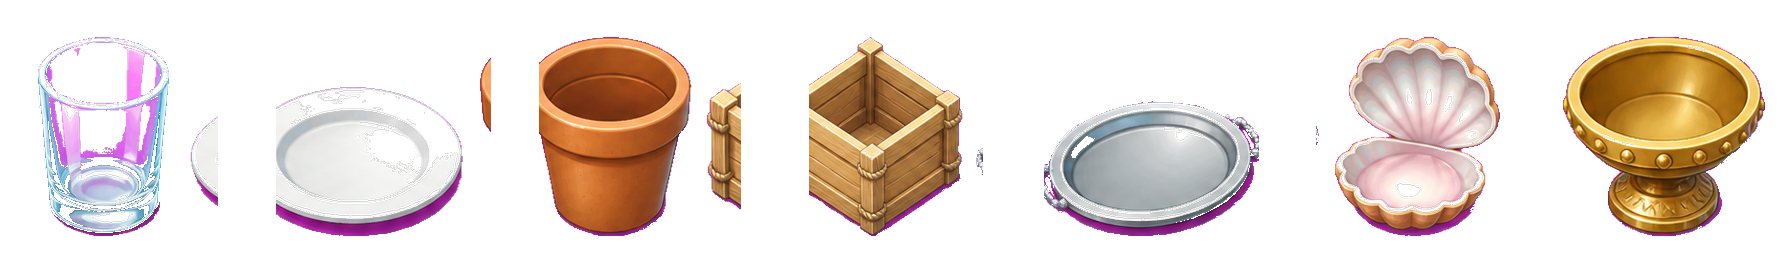
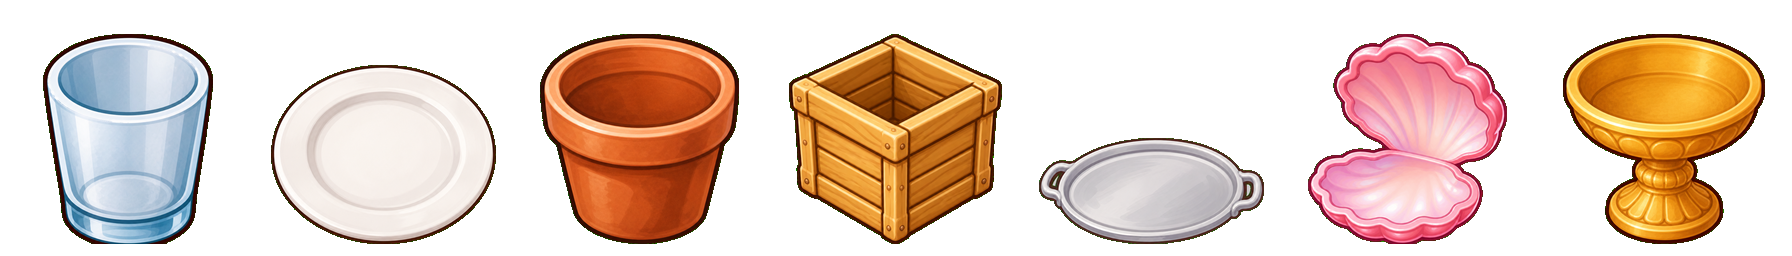
Polish menus and rebuild base utensil art.
Move High Score/Achievements back buttons top-left, add an even 16th achievement, and regenerate utensil icons so empties render cleanly in-game.

diff --git a/index.html b/index.html
@@ -242,7 +242,8 @@
     { id: "score20k", name: "Resort Legend", desc: "Reach a best score of 20,000.", icon: 1, check: s => s.highScore >= 20000 },
     { id: "merges100", name: "Busy Hands", desc: "Complete 100 merges.", icon: 15, check: s => s.totalMerges >= 100 },
     { id: "secretBird", name: "Secret Seagull", desc: "Discover the Jamaican Breeze skin.", icon: 12, check: s => !!s.jamaicanUnlocked },
-    { id: "constellation", name: "Sky Mapper", desc: "Trigger a constellation boost.", icon: 14, check: s => !!s.constellationHits }
+    { id: "constellation", name: "Sky Mapper", desc: "Trigger a constellation boost.", icon: 14, check: s => !!s.constellationHits },
+    { id: "glassStarter", name: "Empty Hands", desc: "Launch 25 empty utensils into service.", icon: 0, check: s => (s.baseLaunches|0) >= 25 }
   ];
 
   const UPGRADE_COSTS = [
@@ -395,7 +396,8 @@
       tutorial: [false,false,false,false,false,false,false],
       lastStation: 0,
       achievements: {},
-      constellationHits: 0
+      constellationHits: 0,
+      baseLaunches: 0
     };
   }
 
@@ -426,6 +428,7 @@
       );
       merged.achievements = Object.assign({}, base.achievements, raw.achievements || {});
       merged.constellationHits = Math.max(0, merged.constellationHits|0);
+      merged.baseLaunches = Math.max(0, merged.baseLaunches|0);
       return merged;
     } catch (_) {
       return base;
@@ -1286,13 +1289,17 @@
     text("Slide. Match. Serve. Forever.", 360, 1188, 18, "#fff8df", "center", 700);
   }
 
+  function drawSubmenuHeader(title, backId) {
+    drawCircleButton(backId, 48, 58, 32, "‹", () => { screen = "menu"; });
+    shadowText(title, 360, 58, 28, "#fff8df");
+    drawCircleButton("sound", 668, 58, 30, save.muted ? "×" : "♪", toggleSound);
+  }
+
   function drawScores() {
     drawMapBackdrop(true);
     ctx.fillStyle = "rgba(8,60,68,.35)";
     ctx.fillRect(0,0,W,H);
-    drawMenuChrome();
-    drawCircleButton("scoresBack", 48, 58, 30, "‹", () => { screen = "menu"; });
-    shadowText("HIGH SCORES", 360, 58, 30, "#fff8df");
+    drawSubmenuHeader("HIGH SCORES", "scoresBack");
     rounded(48, 140, 624, 980, 36, "rgba(255,249,228,.97)", "#e6ad32", 6);
     drawMenuIcon(1, 360, 220, 110);
     text("BEST SHIFT SCORE", 360, 300, 18, "#8b6b58");
@@ -1313,9 +1320,7 @@
     drawMapBackdrop(true);
     ctx.fillStyle = "rgba(8,60,68,.35)";
     ctx.fillRect(0,0,W,H);
-    drawMenuChrome();
-    drawCircleButton("achBack", 48, 58, 30, "‹", () => { screen = "menu"; });
-    shadowText("ACHIEVEMENTS", 360, 58, 28, "#fff8df");
+    drawSubmenuHeader("ACHIEVEMENTS", "achBack");
     const unlockedCount = ACHIEVEMENTS.filter(entry => save.achievements[entry.id]).length;
     text(`${unlockedCount} / ${ACHIEVEMENTS.length} unlocked`, 360, 96, 16, "#fff4bf");
     rounded(36, 128, 648, 1008, 34, "rgba(255,249,228,.97)", "#3eb1d0", 5);
@@ -1325,7 +1330,7 @@
       const col = i % 2;
       const row = Math.floor(i / 2);
       const x = 58 + col * 310;
-      const y = 156 + row * 122;
+      const y = 152 + row * 120;
       rounded(x, y, 292, 108, 22, unlocked ? "#fff7df" : "#ebe4d4", unlocked ? "#3eb1d0" : "#b7b1a4", 3);
       ctx.save();
       ctx.globalAlpha = unlocked ? 1 : .45;
@@ -1870,6 +1875,10 @@
       spin: vx * .0015,
       entered: false
     }));
+    if (tier <= BASE_TIER) {
+      save.baseLaunches = (save.baseLaunches|0) + 1;
+      refreshAchievements(true);
+    }
     game.shots++;
     game.combo = 0;
     game.current = game.next;
